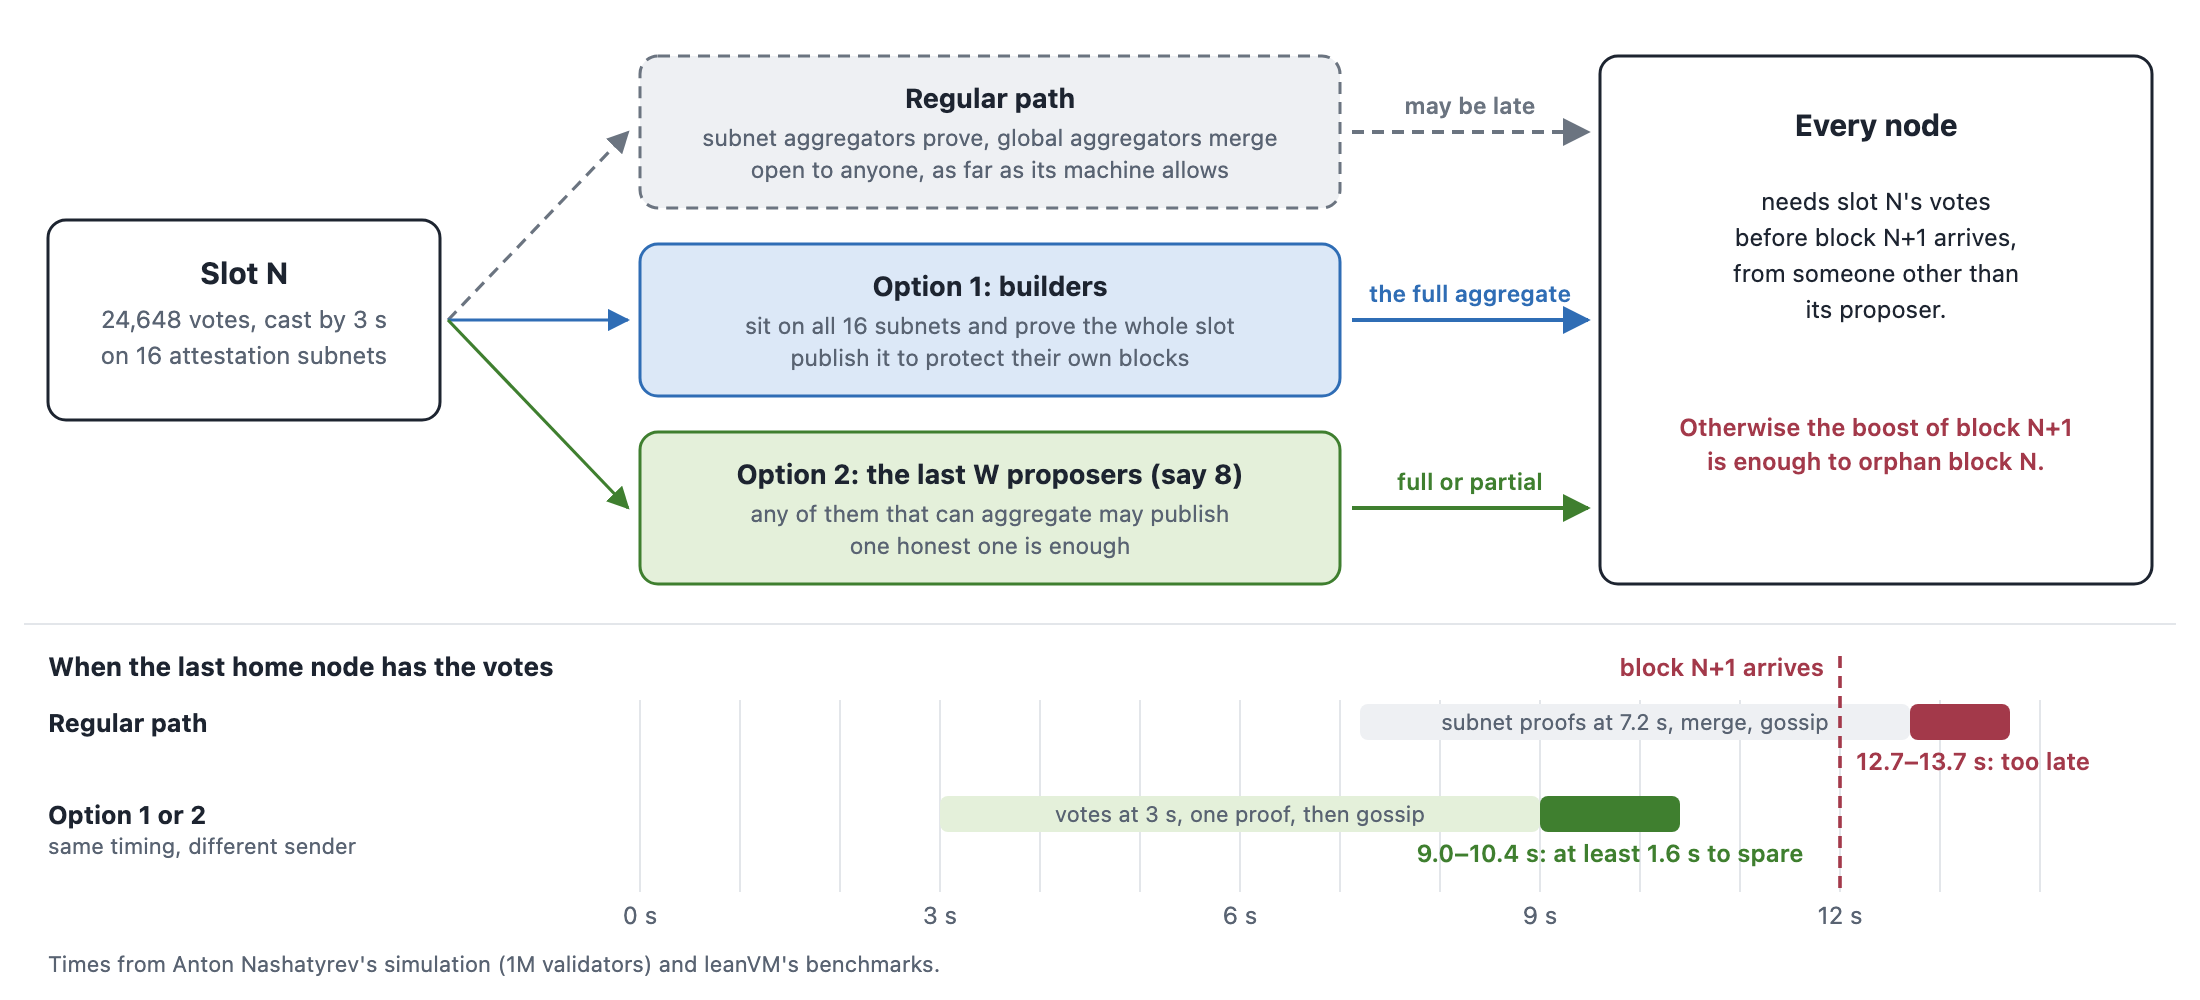
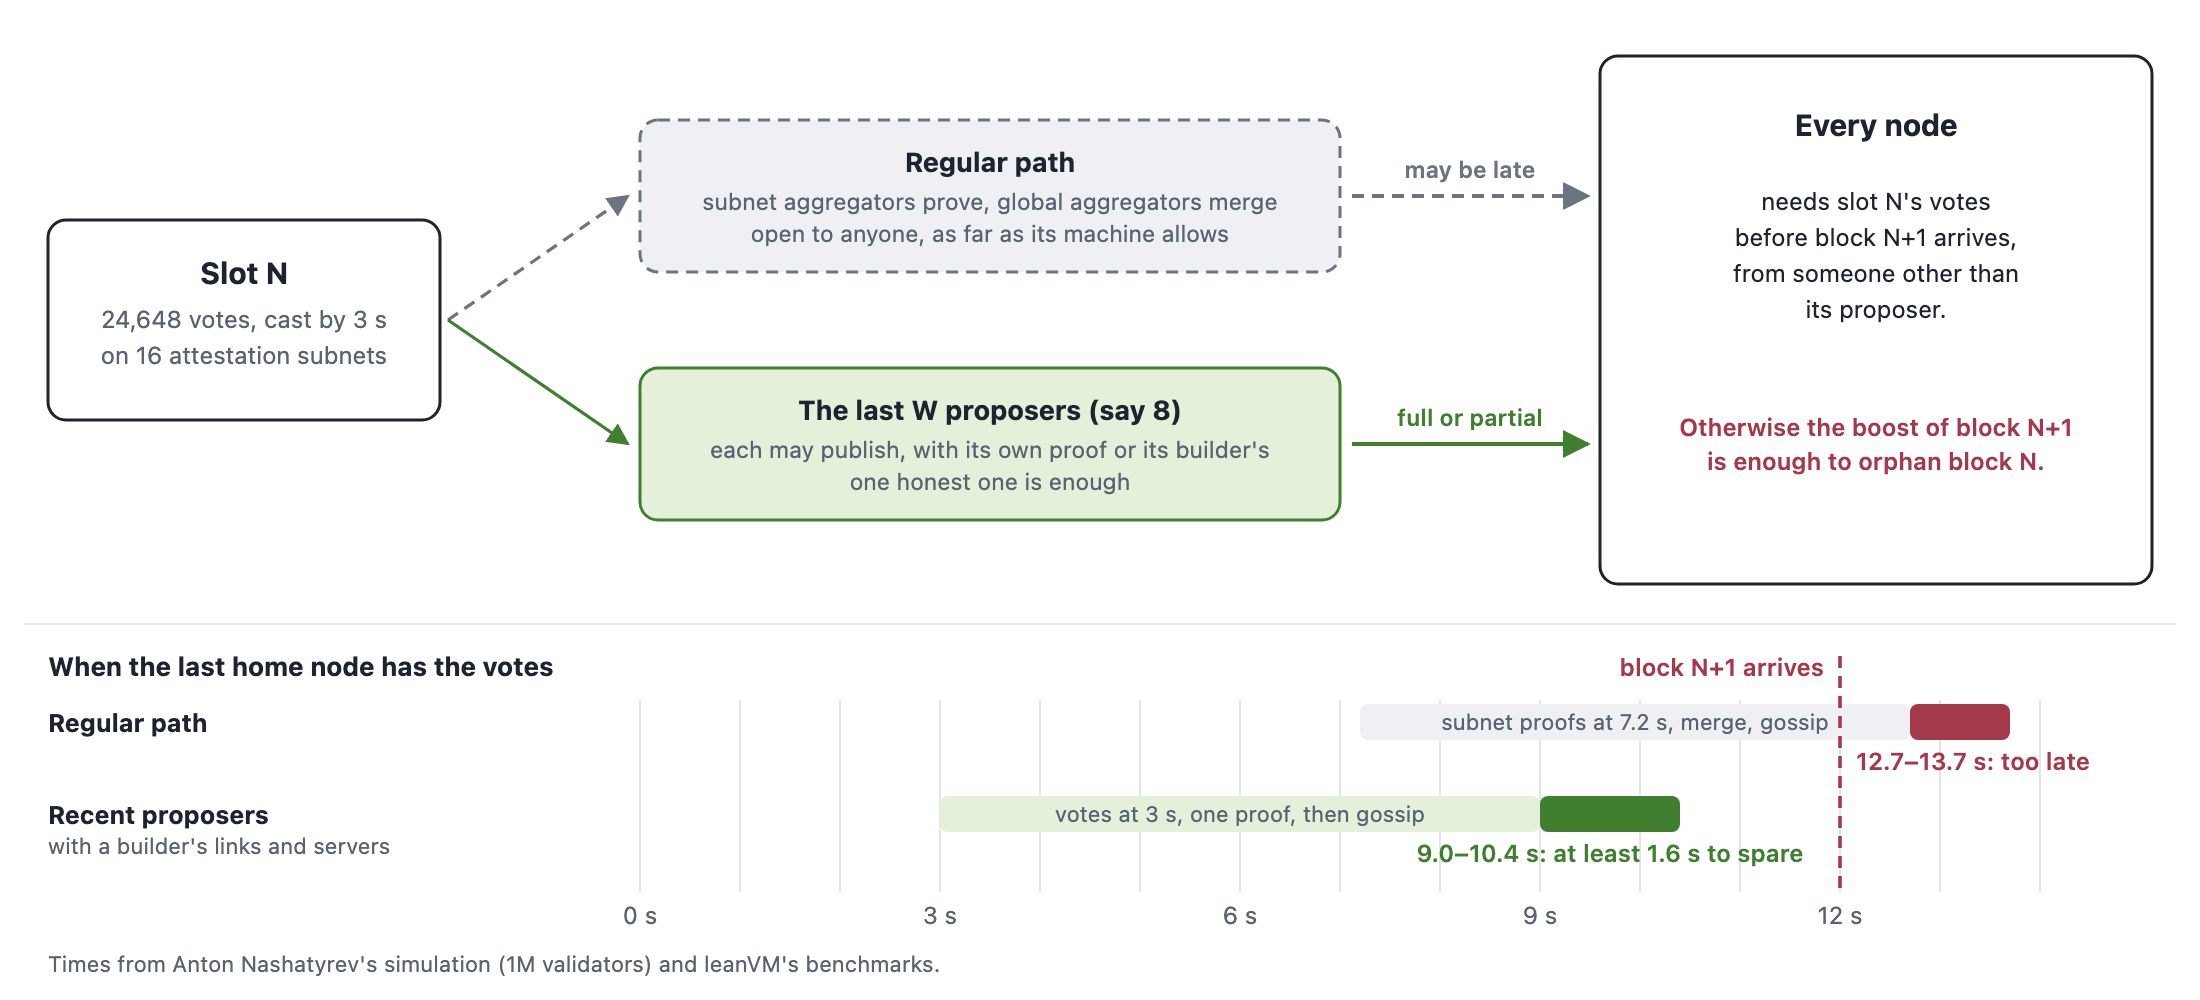
research/pq-gasper: builders note, suggested version with one design
Yann, 23 Nov: option 2 should be the only option presented. With the
bid argument gone, "builders publish" has nothing that "recent
proposers publish" lacks: the motive is the same, the sender set is
open-ended where the last W proposers are exactly W, it needs a new
trust assumption, and it leaves self-built blocks uncovered.

In the suggested short version:
- the design is "recent proposers publish"; the builders option is gone
  and its drawbacks are a Q&A item ("Why not let builders publish
  directly?")
- main idea, "What changes", the Q&A and the open questions follow
- the figure variant shows the regular path and the last W proposers

One addition is the agent's, flagged in the section's banner: a
proposer may publish a proof its builder made. Without it builders are
not in the design and the title no longer fits; whether they stay is
Yann's call.

The current short version, its figure and the long version are
unchanged; the default output of the script is byte-identical.

diff --git a/research/pq-gasper/sim/builders_overview.py b/research/pq-gasper/sim/builders_overview.py
@@ -5,8 +5,9 @@ Bottom: when the last home node has them, against the arrival of block N+1.
 
 Stdlib only, deterministic. Run: python3 builders_overview.py
 With --suggested it writes ../builders-overview-suggested.svg instead, the figure of the
-suggested short version: builders publish to protect their own blocks, and the box on the
-right no longer gives a 40 % threshold (that only holds against the boost alone).
+suggested short version: one design, in which the last W proposers publish with their own
+proof or their builder's, and no 40 % threshold in the box on the right (that only holds
+against the boost alone).
 Times (seconds from the start of slot N), see ../builders.md:
 - regular path: the first subnet proofs go out at 7.2 s (pq spec @ 4c29678), reach a
   global aggregator 0.6 s later, are merged in 0.37-1.33 s, and the full aggregate needs
@@ -58,18 +59,21 @@ text(LX + LW / 2, LY + 54, "24,648 votes, cast by 3 s", 12, MUTE, None, "middle"
 text(LX + LW / 2, LY + 72, "on 16 attestation subnets", 12, MUTE, None, "middle")
 
 RX, RW, RH = 320, 350, 76
-if SUGGESTED:
-    BUILDERS_DO, BUILDERS_SEND = "publish it to protect their own blocks", "the full aggregate"
+REGULAR = ["subnet aggregators prove, global aggregators merge", "open to anyone, as far as its machine allows"]
+if SUGGESTED:      # one design: recent proposers publish, with their own proof or their builder's
+    RELAYS = [
+        (60, "Regular path", REGULAR, GREY, GREY_BG, "g", True, "may be late"),
+        (184, "The last W proposers (say 8)", ["each may publish, with its own proof or its builder's",
+                                               "one honest one is enough"], GREEN, GREEN_BG, "n", False, "full or partial"),
+    ]
 else:
-    BUILDERS_DO, BUILDERS_SEND = "the full aggregate goes with their offer", "a good enough view"
-RELAYS = [
-    (28, "Regular path", ["subnet aggregators prove, global aggregators merge",
-                          "open to anyone, as far as its machine allows"], GREY, GREY_BG, "g", True, "may be late"),
-    (122, "Option 1: builders", ["sit on all 16 subnets and prove the whole slot",
-                                 BUILDERS_DO], BLUE, BLUE_BG, "b", False, BUILDERS_SEND),
-    (216, "Option 2: the last W proposers (say 8)", ["any of them that can aggregate may publish",
-                                                     "one honest one is enough"], GREEN, GREEN_BG, "n", False, "full or partial"),
-]
+    RELAYS = [
+        (28, "Regular path", REGULAR, GREY, GREY_BG, "g", True, "may be late"),
+        (122, "Option 1: builders", ["sit on all 16 subnets and prove the whole slot",
+                                     "the full aggregate goes with their offer"], BLUE, BLUE_BG, "b", False, "a good enough view"),
+        (216, "Option 2: the last W proposers (say 8)", ["any of them that can aggregate may publish",
+                                                         "one honest one is enough"], GREEN, GREEN_BG, "n", False, "full or partial"),
+    ]
 EX, EY, EW, EH = 800, 28, 276, 264
 for y, title, subs, col, bg, mk, dash, lab in RELAYS:
     box(RX, y, RW, RH, bg, col, dash)
@@ -115,10 +119,12 @@ for t in range(0, 15):
 for t in (0, 3, 6, 9, 12):
     text(x(t), AX + 16, f"{t} s", 12, MUTE, None, "middle")
 
+RELAY_NAME, RELAY_SUB = (("Recent proposers", "with a builder's links and servers") if SUGGESTED
+                         else ("Option 1 or 2", "same timing, different sender"))
 ROWS = [
     (352, "Regular path", None, 7.2, 12.7, 13.7, GREY, GREY_BG,
      "subnet proofs at 7.2 s, merge, gossip", "12.7–13.7 s: too late", "end"),
-    (398, "Option 1 or 2", "same timing, different sender", 3.0, 9.0, 10.4, GREEN, GREEN_BG,
+    (398, RELAY_NAME, RELAY_SUB, 3.0, 9.0, 10.4, GREEN, GREEN_BG,
      "votes at 3 s, one proof, then gossip", "9.0–10.4 s: at least 1.6 s to spare", "middle"),
 ]
 for y, name, sub, t_from, t_a, t_b, col, bg, inside, verdict, anchor in ROWS:

diff --git a/research/pq-gasper/builders.md b/research/pq-gasper/builders.md
@@ -117,27 +117,30 @@ Of course there are still open questions:
 
 # Suggested new short version
 
-> **Provenance: agent, 23 Nov 2026.** A suggested replacement for the short version above, written after Yann's comments of 23 Nov on what the two-slot inclusion delay does to the argument. Yann has not reviewed it. Spec references are to the `pq` branch @ `4c29678`, as above.
+> **Provenance: agent, 23 Nov 2026.** A suggested replacement for the short version above, written after Yann's comments of 23 Nov. Yann has not reviewed it. Spec references are to the `pq` branch @ `4c29678`, as above.
 >
 > What differs from the short version above:
-> - **The argument.** With the two-slot delay the proposer has the aggregate for free before its slot, so it no longer comes with the bid. It is published by whoever wants their block to stay. This changes the main idea, Why 5, 7 and 8, two bullets of option 1, the bid question and the payment question.
+> - **The argument.** With the two-slot delay the proposer has the aggregate for free before its slot, so it no longer comes with the bid. It is published by whoever wants their block to stay. This changes the main idea, Why 5, 7 and 8, the bid question and the payment question.
+> - **One design.** Only recent proposers publish. "Builders publish" is no longer an option; its drawbacks are a question in the Q&A.
 > - **Delayed inclusion is not a given.** A new paragraph says so, and that the post only considers the version with it. A new question covers the version without, where the builder hands the aggregate over with its offer.
 > - **Lean.** The other assumptions of the model are named: an honest majority, view-merge, no proposer boost.
-> - **The 40 % threshold.** "Votes from over 40 % of the slot's stake are enough" is gone from the problem and from option 1. It only holds against the boost alone, not once adversarial votes are on the other branch. One caveated sentence is left under "Capacity".
-> - **Builders are not few.** Option 1's first drawback said "there are few". There are many, with different strategies; what is concentrated is who builds the blocks.
-> - **Figure.** `builders-overview-suggested.png`, from `sim/builders_overview.py --suggested`: builders publish to protect their own blocks, and the box on the right gives no threshold.
-> - **Not from Yann's text or comments.** "About 0.06 ETH" (0.051 plus the 0.0089 median bid), the open question "Stake off the subnets", and the second sentence of "Measurements". The reward split has four digits so that it sums to 0.051.
+> - **The 40 % threshold.** "Votes from over 40 % of the slot's stake are enough" is gone from the problem. It only holds against the boost alone, not once adversarial votes are on the other branch. One caveated sentence is left under "Capacity".
+> - **Builders are not few.** There are many, with different strategies; what is concentrated is who builds the blocks.
+> - **Figure.** `builders-overview-suggested.png`, from `sim/builders_overview.py --suggested`: one design, and no threshold in the box on the right.
+> - **Not from Yann's text or comments.**
+>   - Where builders remain: a proposer may publish a proof its builder made. Without that, builders are not in the design and the title no longer fits. It is in the main idea, the design, "Where do builders come in?" and the open question "Handing over".
+>   - "About 0.06 ETH" (0.051 plus the 0.0089 median bid), the open question "Stake off the subnets", and the second sentence of "Measurements". The reward split has four digits so that it sums to 0.051.
 > - **If adopted,** the suggested figure replaces `builders-overview.png`, and the long version needs the same pass, including its own 40 % sentence.
 
 **Context.** We are exploring PQ Gasper as a way to get to PQAI as soon as possible. Networking is the hard part. There are [several avenues that could make PQ Gasper work](https://notes.ethereum.org/_rGnW7YuRWurwyA8zFhsog), but I believe most of them are either unrealistic or come with harsh consequences. This post explores one of them: low-bandwidth nodes rely on builders. In an emergency, that is perhaps not as outlandish as it seems at first glance.
 
 > **Disclaimer.** This write-up does not mean that I believe this is the right path forward. It is an exploration, since the idea has been brought up semi-seriously a couple of times.
 
-**Main idea.** We keep a very simple regular path for attestation aggregation, and accept that it may not get a slot's votes to EIP-7870 nodes before the next block. Rewards do not suffer, because a block includes the votes cast two slots before it and the regular path is in time for that. Fork choice does. So for the duration of a single fork, someone with a block to protect also publishes each slot's votes early: builders in the simple version, recent proposers in the principled one.
+**Main idea.** We keep a very simple regular path for attestation aggregation, and accept that it may not get a slot's votes to EIP-7870 nodes before the next block. Rewards do not suffer, because a block includes the votes cast two slots before it and the regular path is in time for that. Fork choice does. So for the duration of a single fork, someone with a block to protect also publishes each slot's votes early: the proposers of the last few slots, with the proof from their builders if they cannot make it themselves.
 
 **Delayed inclusion.** The two-slot delay entered the `pq` spec on 18 Nov and is not a given. This post only considers the version with it. The version without can do very well too: the builder then hands the aggregate to the next proposer with its offer, possibly for a price (see the Q&A).
 
-![Who gets a slot of PQ Gasper votes to every node, and when: the regular path, builders, or the last W proposers](builders-overview-suggested.png)
+![Who gets a slot of PQ Gasper votes to every node, and when: the regular path or the last W proposers](builders-overview-suggested.png)
 
 ## Why
 
@@ -176,43 +179,31 @@ By my arithmetic from Anton's per-hop times and the spec's current schedule, whe
 
 The above alone is not safe. The proposer of slot N+1 could orphan block N by building on N−1. Its block carries a boost worth 40 % of one slot's stake, and a node that has not seen slot N's votes weighs block N at nothing.
 
-So slot N's votes have to reach every node before block N+1 does, from someone other than that proposer. No block brings them in time: with the two-slot inclusion delay they are first included in block N+2. The two options differ in who may publish them.
+So slot N's votes have to reach every node before block N+1 does, from someone other than that proposer. No block brings them in time: with the two-slot inclusion delay they are first included in block N+2. The question is who may publish them.
 
-### Option 1, naive: builders publish
-
-- Builders sit on all 16 attestation subnets and prove the whole slot.
-- They publish the aggregate to every node, because they have a block to protect: the builder of block N wants slot N's votes seen before block N+1 arrives.
-- They have no reason to hold votes back, since every proposer gets the full aggregate from the regular path anyway.
-- Builders have their proof by about 6 s, so nodes have 6 s to fetch it. Even 3 s at 20 Mbit/s is room for 8–10 aggregates with duplicate copies.
-
-**For:** it is simple. Builders build 93 % of blocks and do not want theirs orphaned, so at least one should want to share a full aggregate.
-
-**Against:**
-- It needs one honest, reachable builder. There are many builders, with different strategies, but building is concentrated: three of them make 83 % of MEV-Boost blocks. Colluding builders can withhold votes, which lets the next proposer orphan honest blocks. They cannot finalize conflicting blocks.
-- A self-built block has no builder to speak for it. Where the regular path is late, the next proposer can orphan it, and gives up no attestation reward in doing so.
-- A builder that regrets its bid wants its own block orphaned.
-
-### Option 2, principled: recent proposers publish
+### Recent proposers publish
 
 - The proposers of the last W slots, say W = 8, may each publish one aggregate per slot.
 - Every later vote adds weight to their own block, so they want the votes known.
+- A proposer need not make the proof itself. Its builder has the servers and the same block to protect, and a proof is valid whoever made it.
 - The set is small and staked, so spam is bounded at W aggregates per slot: 2.4 MiB for W = 8, against the 13.1 MiB today's spec allows.
 - We assume an honest proposer in such a window anyway.
+- With a builder's links and servers the proof is ready by about 6 s, so nodes have 6 s to fetch it. Even 3 s at 20 Mbit/s is room for 8–10 aggregates with duplicate copies.
 
 **What it guarantees:**
 - In a simplified model, it is machine-checked in Lean (not yet published): an honest block is never reorged if one proposer among the last W is honest and can aggregate. The model has every validator voting every slot, an honest majority, view-merge, and no proposer boost.
 - With 1/32 committees there is only arithmetic so far. With W = 8, an attacker with 20 % of the stake needs 32 proposers in a row to mislead a committee, and one with a third needs 16.
 
 **Against:**
-- A relay has to hold the raw votes and prove them: roughly a 32-core server for a whole slot, or a strong desktop for half the subnets. Partial aggregates add up.
+- Someone has to hold the raw votes and prove them: roughly a 32-core server for a whole slot, or a strong desktop for half the subnets. Partial aggregates add up.
 - The relays are a public list of at most W validators, which can be flooded.
 - It needs three rules: fork choice counts only relayed votes, attesters freeze their view before the slot, and gossip forwards every permitted aggregate that adds a vote, as the spec's superset rule already does for subnet aggregates. With the freeze, this is view-merge in which past proposers also speak.
 
 ### What changes
 
-- A global topic for full-slot aggregates with a restricted sender set: staked builders in option 1, the last W proposers in option 2.
+- A global topic for full-slot aggregates with a restricted sender set: the proposers of the last W slots.
 - Small nodes stop subscribing to attestation subnets.
-- Option 2 adds the three rules above.
+- The three rules above.
 - The state transition does not change.
 
 ## Q&A
@@ -221,17 +212,20 @@ So slot N's votes have to reach every node before block N+1 does, from someone o
 
 **What about the version without delayed inclusion?** It can do very well. The proposer then needs the aggregate in the very next block, before the regular path is sure to deliver it. Builders have it by about 6 s and hand it over with their offer, possibly for a price: a proposer ranks offers by payment plus the reward of the aggregate that comes with them, 0.051 ETH for a full one. Head credit alone, which then needs the very next block, beats 71 % of winning bids. The limit is that whatever is published for fork choice is free to every proposer, so only what a builder holds back can be priced.
 
-**Does it have to be builders?** No. A relay needs the raw votes and a prover: roughly a 32-core server for a whole slot, or a strong desktop for half the subnets. Builders are the ones who have that today.
+**Where do builders come in?** A relay needs the raw votes and a prover: roughly a 32-core server for a whole slot, or a strong desktop for half the subnets. Builders are the ones who have that today. A proposer without it can publish the proof its builder made, and one with it needs no builder.
 
-**What if every builder is down?** The regular path remains. With the spec's two-slot inclusion delay the rewards hold up, and finality continues. What is lost is the early view: the slowest nodes see a slot's votes only after the next block.
+**Why not let builders publish directly?** That is the naive version, and it has three problems. It needs one honest, reachable builder: there are many builders, with different strategies, but building is concentrated, and three of them make 83 % of MEV-Boost blocks. A self-built block has no builder to speak for it. And a builder that regrets its bid wants its own block orphaned. Recent proposers avoid the last two, and turn the first into an assumption we make anyway.
 
-**Why not EIP-8292's super-aggregators?** It is the same role. [EIP-8292](https://eips.ethereum.org/EIPS/eip-8292) asks nodes with 32 ETH per subnet to aggregate every subnet, unpaid, and leaves incentives open. Builders already exist, are staked, and have their own block to protect.
+**What if every builder is down?** Proposers that can aggregate by themselves still publish. Where none in the window can, the regular path remains. With the spec's two-slot inclusion delay the rewards hold up, and finality continues. What is lost is the early view: the slowest nodes see a slot's votes only after the next block.
+
+**Why not EIP-8292's super-aggregators?** It is the same role. [EIP-8292](https://eips.ethereum.org/EIPS/eip-8292) asks nodes with 32 ETH per subnet to aggregate every subnet, unpaid, and leaves incentives open. Recent proposers and their builders already exist, are staked, and have their own block to protect.
 
 Of course there are still open questions:
 - **Committees.** The Lean result holds when every validator votes every slot. With 1/32 committees there is only arithmetic.
 - **Capacity.** How many recent proposers can aggregate a whole slot in time, and whether partial aggregates are enough in practice. Votes from over 40 % of a slot's stake outweigh the boost alone, but not an adversary that also has votes on the other branch.
-- **Flooding.** The relays of option 2 are a public list. How many of them can be knocked offline for a few seconds?
+- **Flooding.** The relays are a public list. How many of them can be knocked offline for a few seconds?
 - **Payment.** The published aggregate is free to every proposer, and with the two-slot delay so is the regular path's. Is protecting one's own block enough to pay for producing it?
+- **Handing over.** How a proposer passes the job to its builder: it could sign the builder's proof each slot, or the rule could also permit the builders of the last W blocks.
 - **Stake off the subnets.** The next proposer only misleads validators that have not seen the votes. Whether block N is really orphaned, or those validators just vote for a losing block, depends on how much stake they hold.
 - **Measurements.** The cost of an attestation subnet and the timing of the regular path come from one simulation and my arithmetic. The last hop to the slowest home node, 4.6 s, was measured with 16 subnet proofs sent at once, so a single aggregate may be faster.
 
